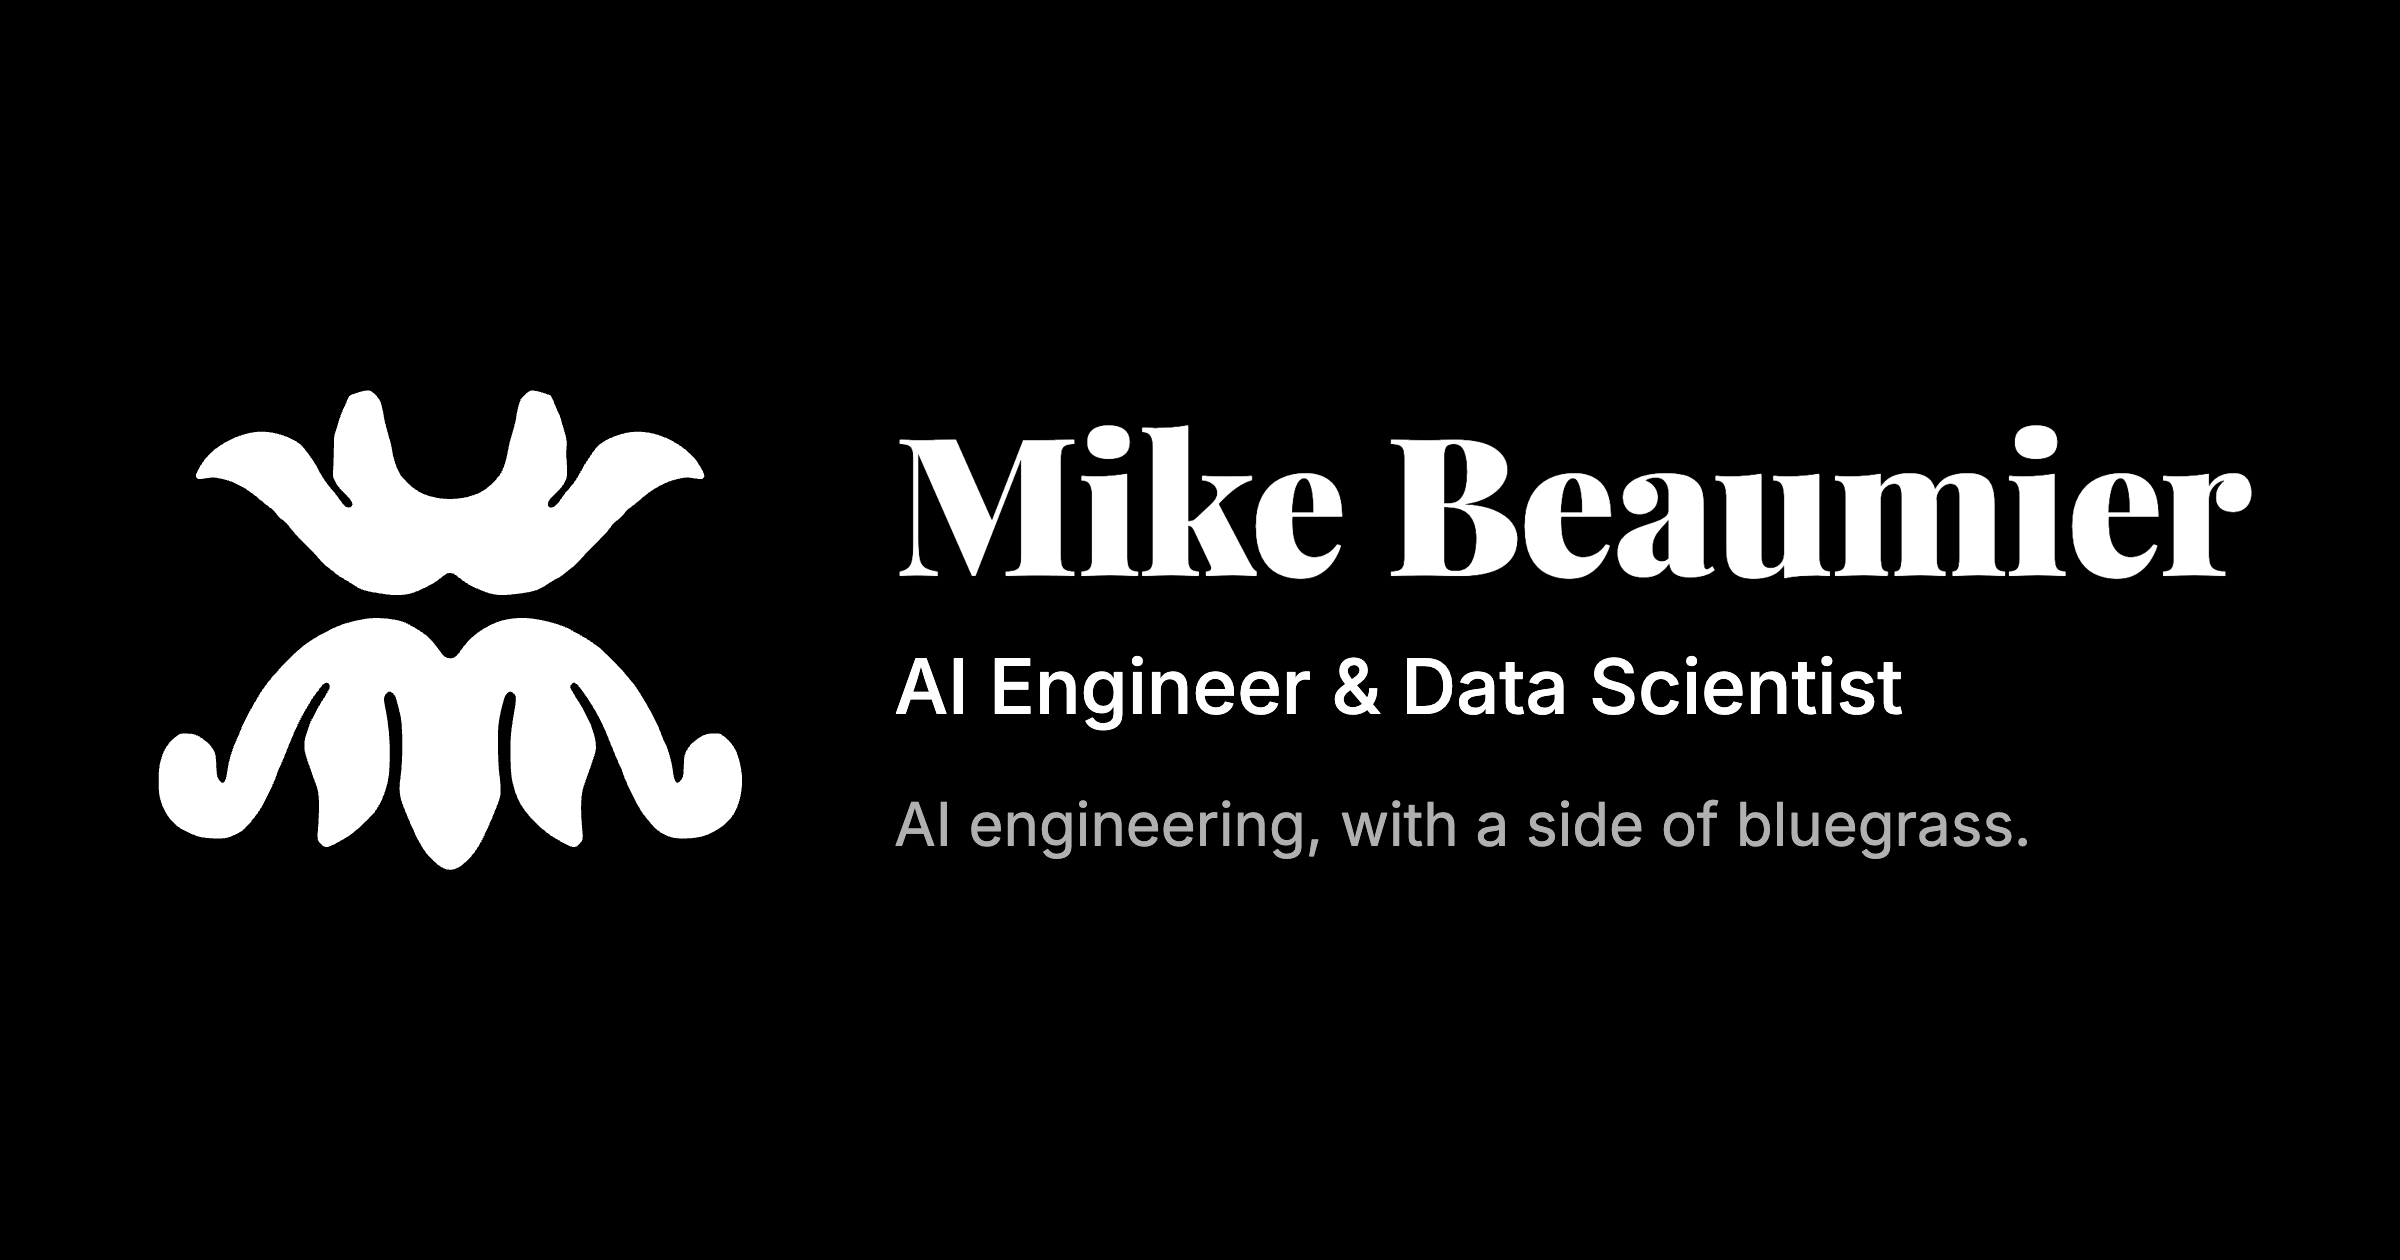
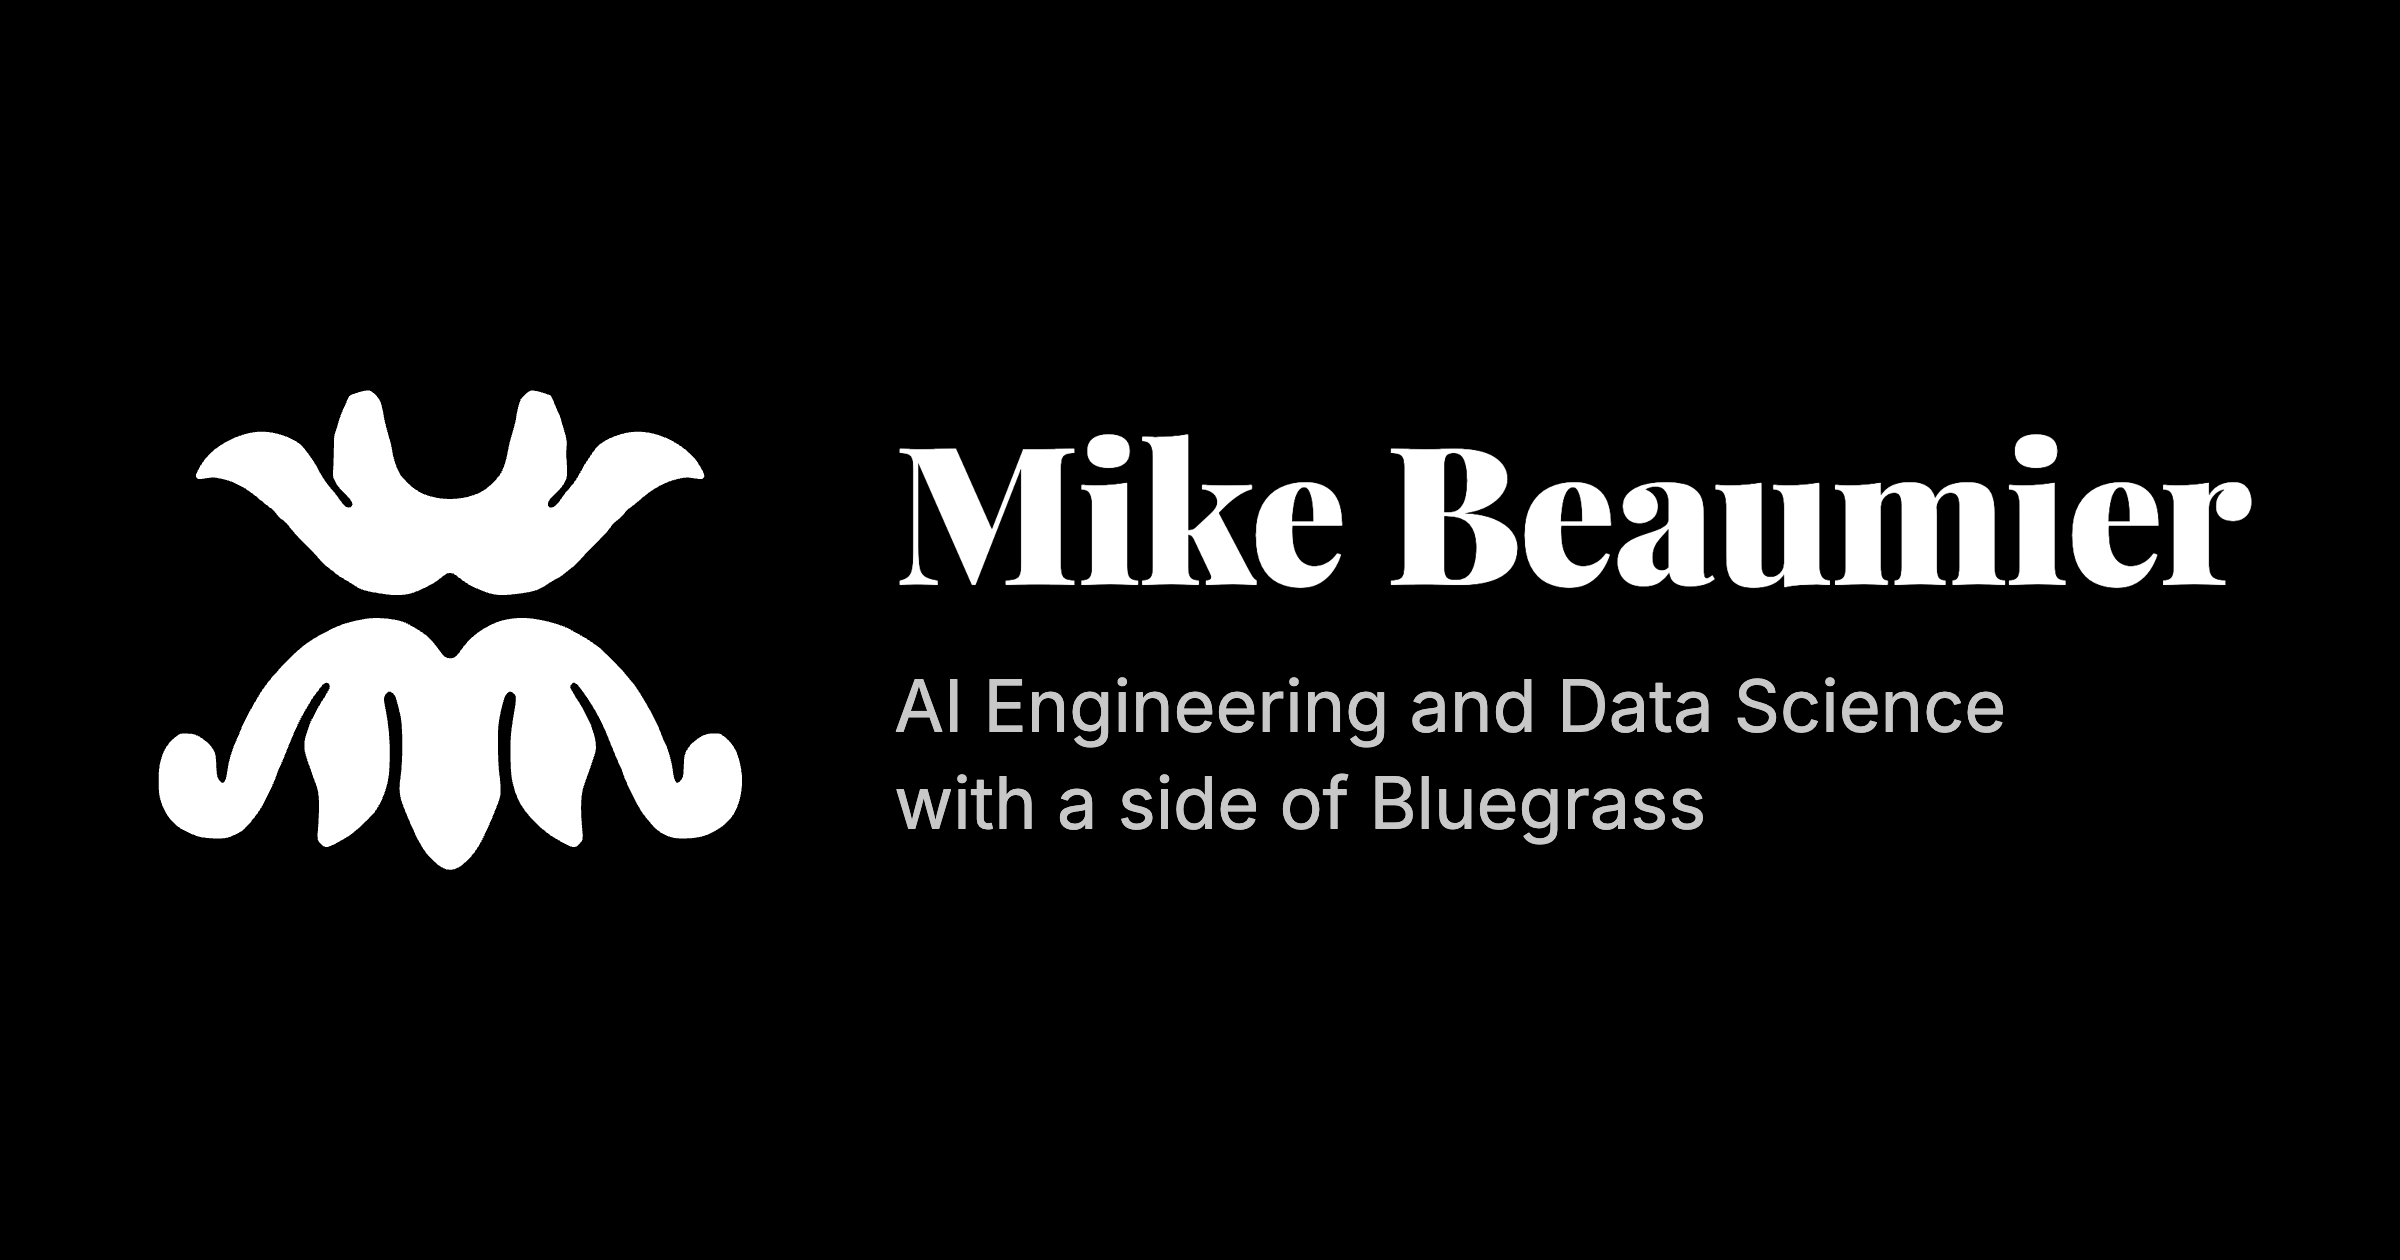
Share card: name and one tagline, no repeated job title

Changed region(s): [[0.375, 0.5262, 0.8438, 0.681], [0.375, 0.3405, 0.9375, 0.4643]]

diff --git a/docs/og/og.html b/docs/og/og.html
@@ -8,9 +8,8 @@
     align-items: center; justify-content: center; gap: 72px; font-family: Inter, sans-serif; }
   svg { width: 300px; height: auto; flex: none; }
   h1 { font-family: 'Playfair Display', serif; font-weight: 900; font-size: 96px; line-height: 1;
-    margin: 0 0 24px; letter-spacing: -0.01em; }
-  .role { font-size: 38px; font-weight: 500; margin: 0 0 28px; }
-  .tagline { font-size: 30px; color: #b0b0b0; margin: 0; }
+    margin: 0 0 28px; letter-spacing: -0.01em; }
+  .tagline { font-size: 36px; line-height: 1.35; color: #c8c8c8; margin: 0; }
 </style></head>
 <body>
   <svg viewBox="175 254 910 752" aria-hidden="true">
@@ -85,7 +84,6 @@
   </svg>
   <div>
     <h1>Mike Beaumier</h1>
-    <p class="role">AI Engineer &amp; Data Scientist</p>
-    <p class="tagline">AI engineering, with a side of bluegrass.</p>
+    <p class="tagline">AI Engineering and Data Science<br />with a side of Bluegrass</p>
   </div>
 </body></html>

diff --git a/docs/og/README.md b/docs/og/README.md
@@ -1,9 +1,9 @@
 # Share card
 
 `public/og.png` is the image link previews show (LinkedIn, Slack, iMessage, X) for pages
-without their own `image`: the favicon's inlay (`public/favicon.svg`) beside "Mike Beaumier",
-"AI Engineer & Data Scientist" and "AI engineering, with a side of bluegrass.", white on black like the favicon. Keep it
-bold: LinkedIn often shows it as a ~160px thumbnail.
+without their own `image`: the favicon's inlay (`public/favicon.svg`) beside "Mike Beaumier" and
+"AI Engineering and Data Science with a side of Bluegrass", white on black like the favicon.
+Keep it bold: LinkedIn often shows it as a ~160px thumbnail.
 
 `og.html` is the source, laid out at 1200×630 (1.91:1) and rendered at 2x, so 2400×1260. It
 loads the site fonts from Google Fonts. To re-render, from the repo root:
